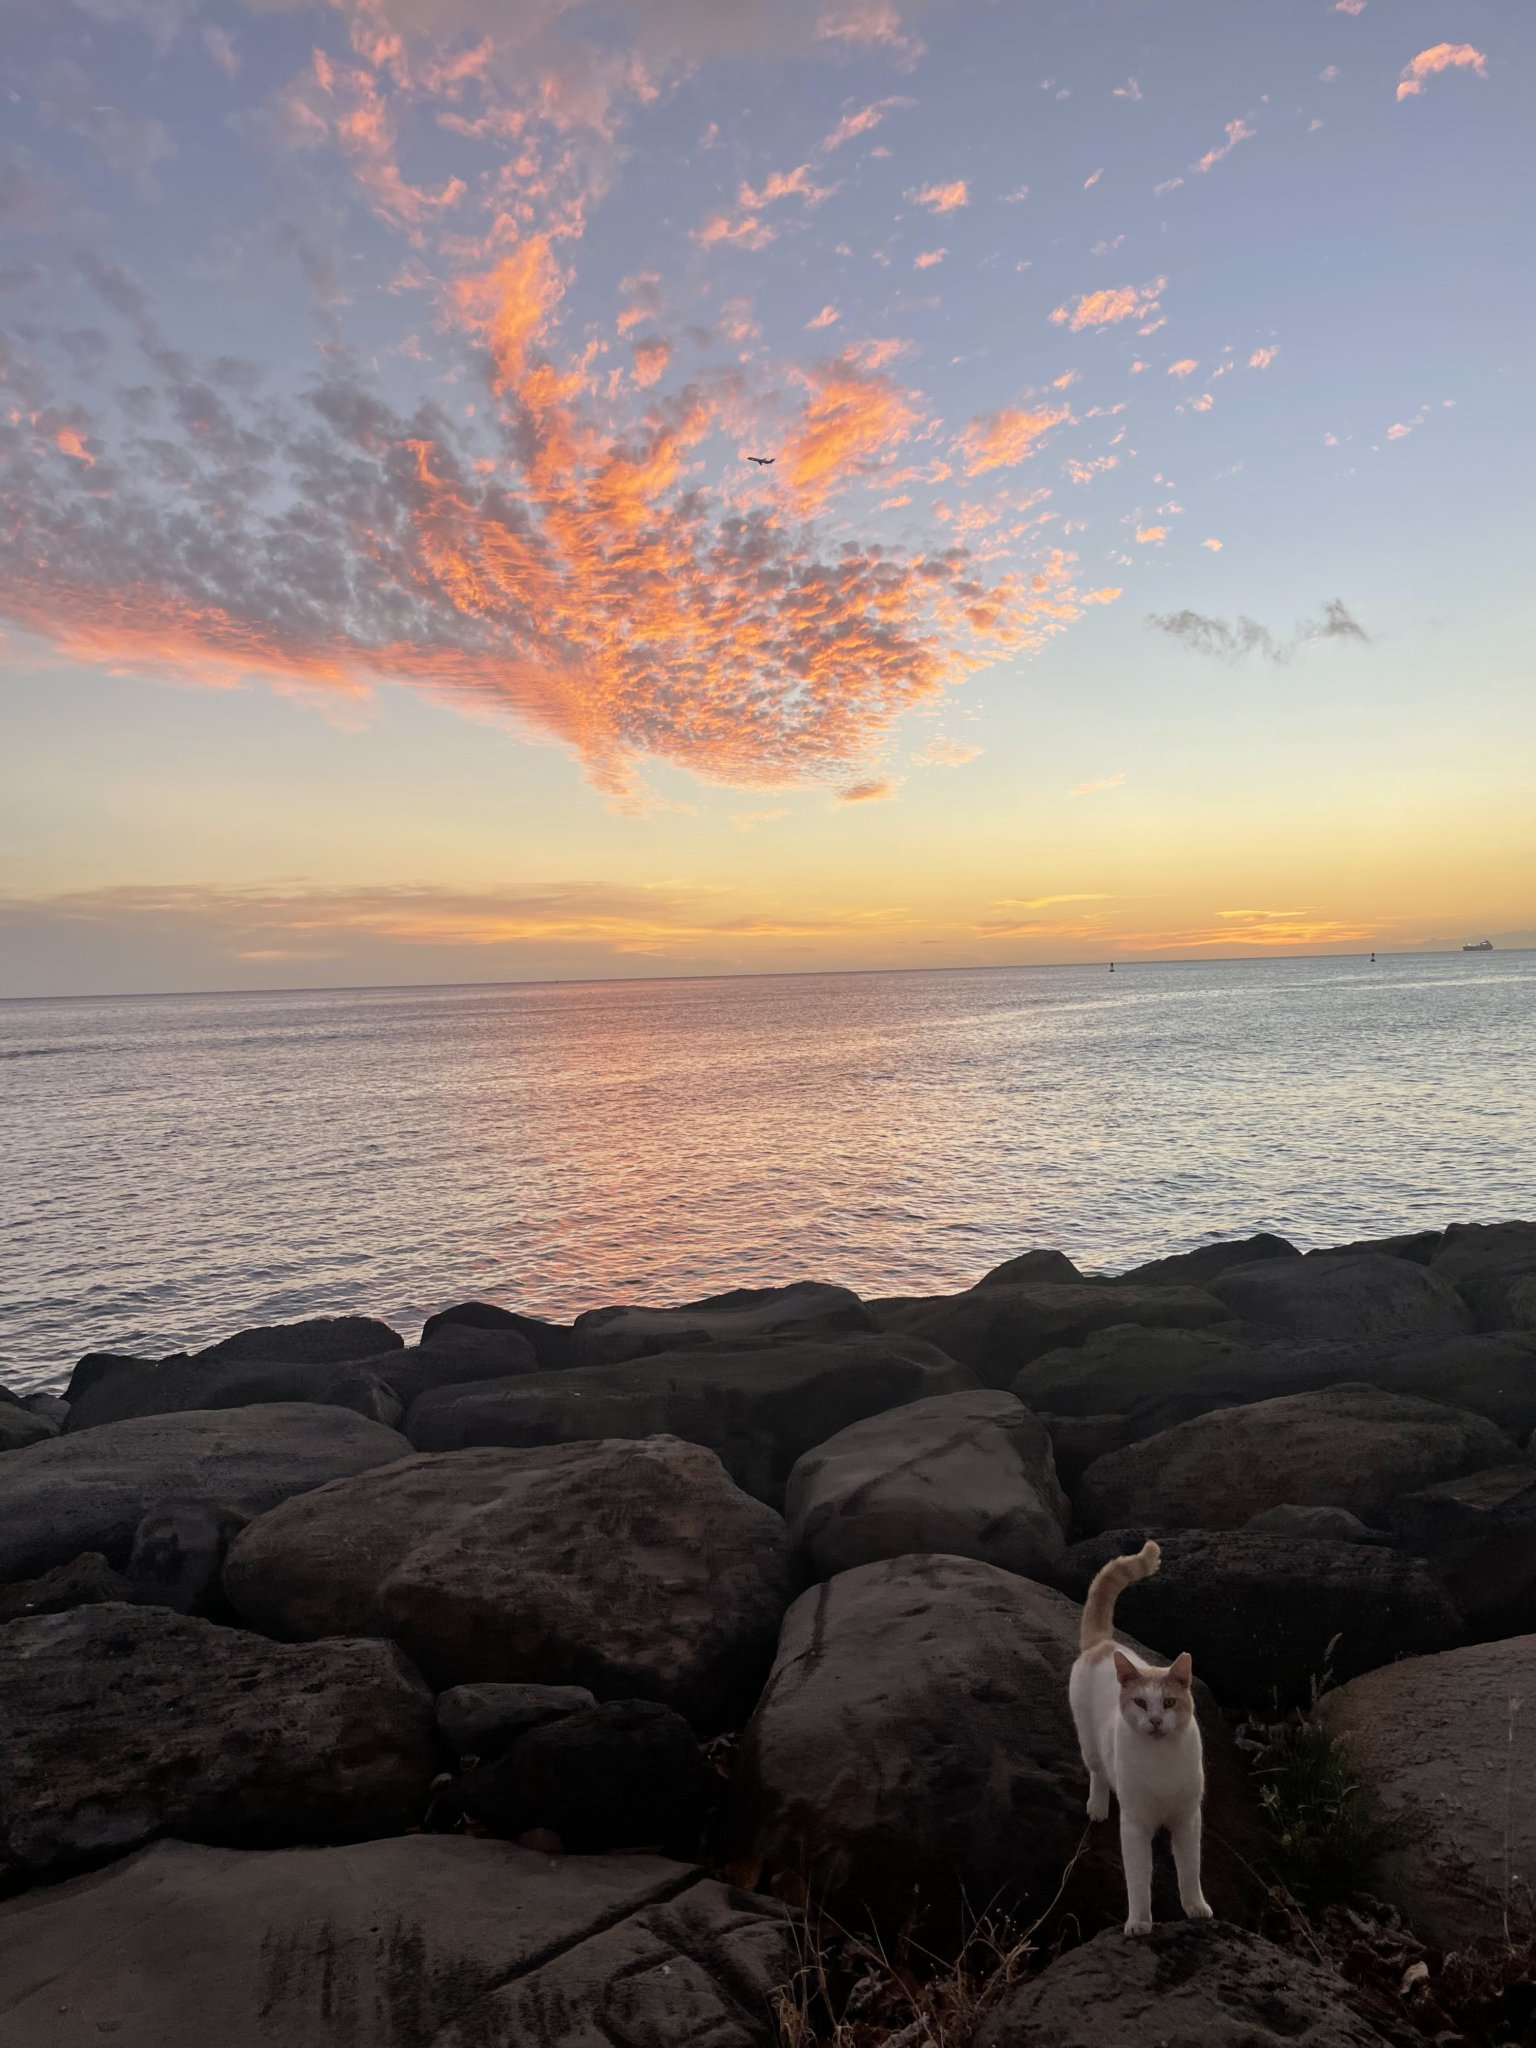
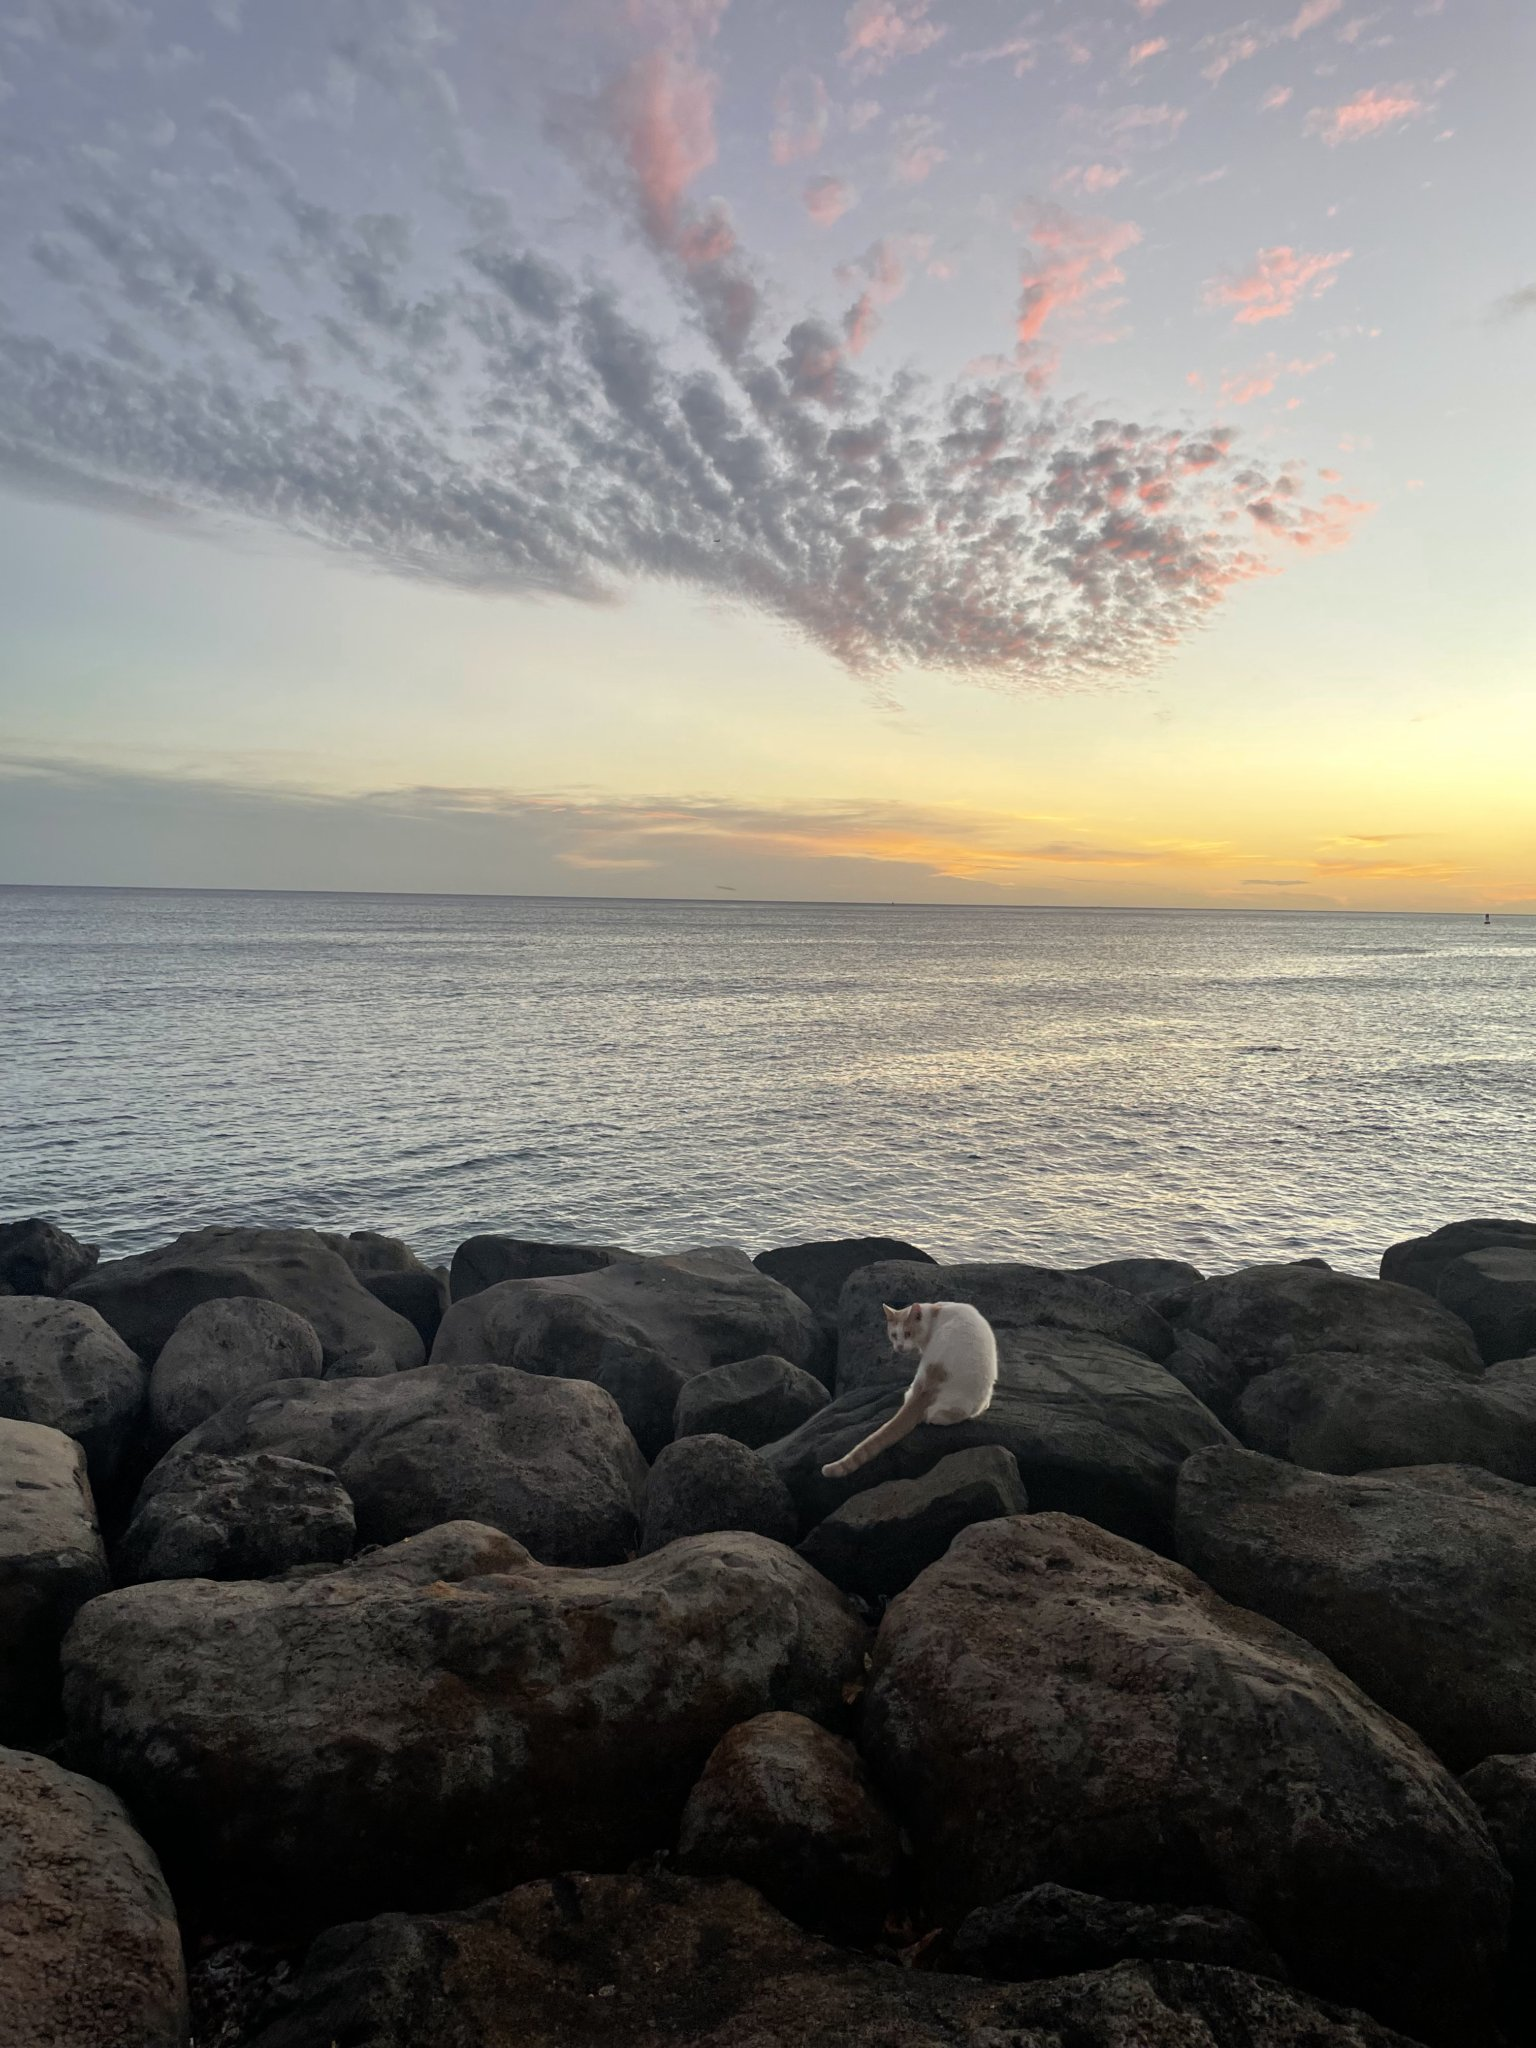
12/10/25

diff --git a/docs/index.html b/docs/index.html
@@ -105,6 +105,11 @@ ul.task-list li input[type="checkbox"] {
 </i> 
 <span class="menu-text"></span></a>
   </li>  
+  <li class="nav-item">
+    <span class="nav-link">
+<span class="menu-text">final dashboard</span>
+    </span>
+  </li>  
 </ul>
           </div> <!-- /navcollapse -->
             <div class="quarto-navbar-tools">

diff --git a/docs/styles.css b/docs/styles.css
@@ -2,8 +2,8 @@
 h1{
   color: skyblue;
 }
-h2{
-  color: yellowgreen;
+#h2{
+ #color: yellowgreen;
 }
 
 h3{

diff --git a/styles.css b/styles.css
@@ -2,8 +2,8 @@
 h1{
   color: skyblue;
 }
-h2{
-  color: yellowgreen;
+#h2{
+ #color: yellowgreen;
 }
 
 h3{
